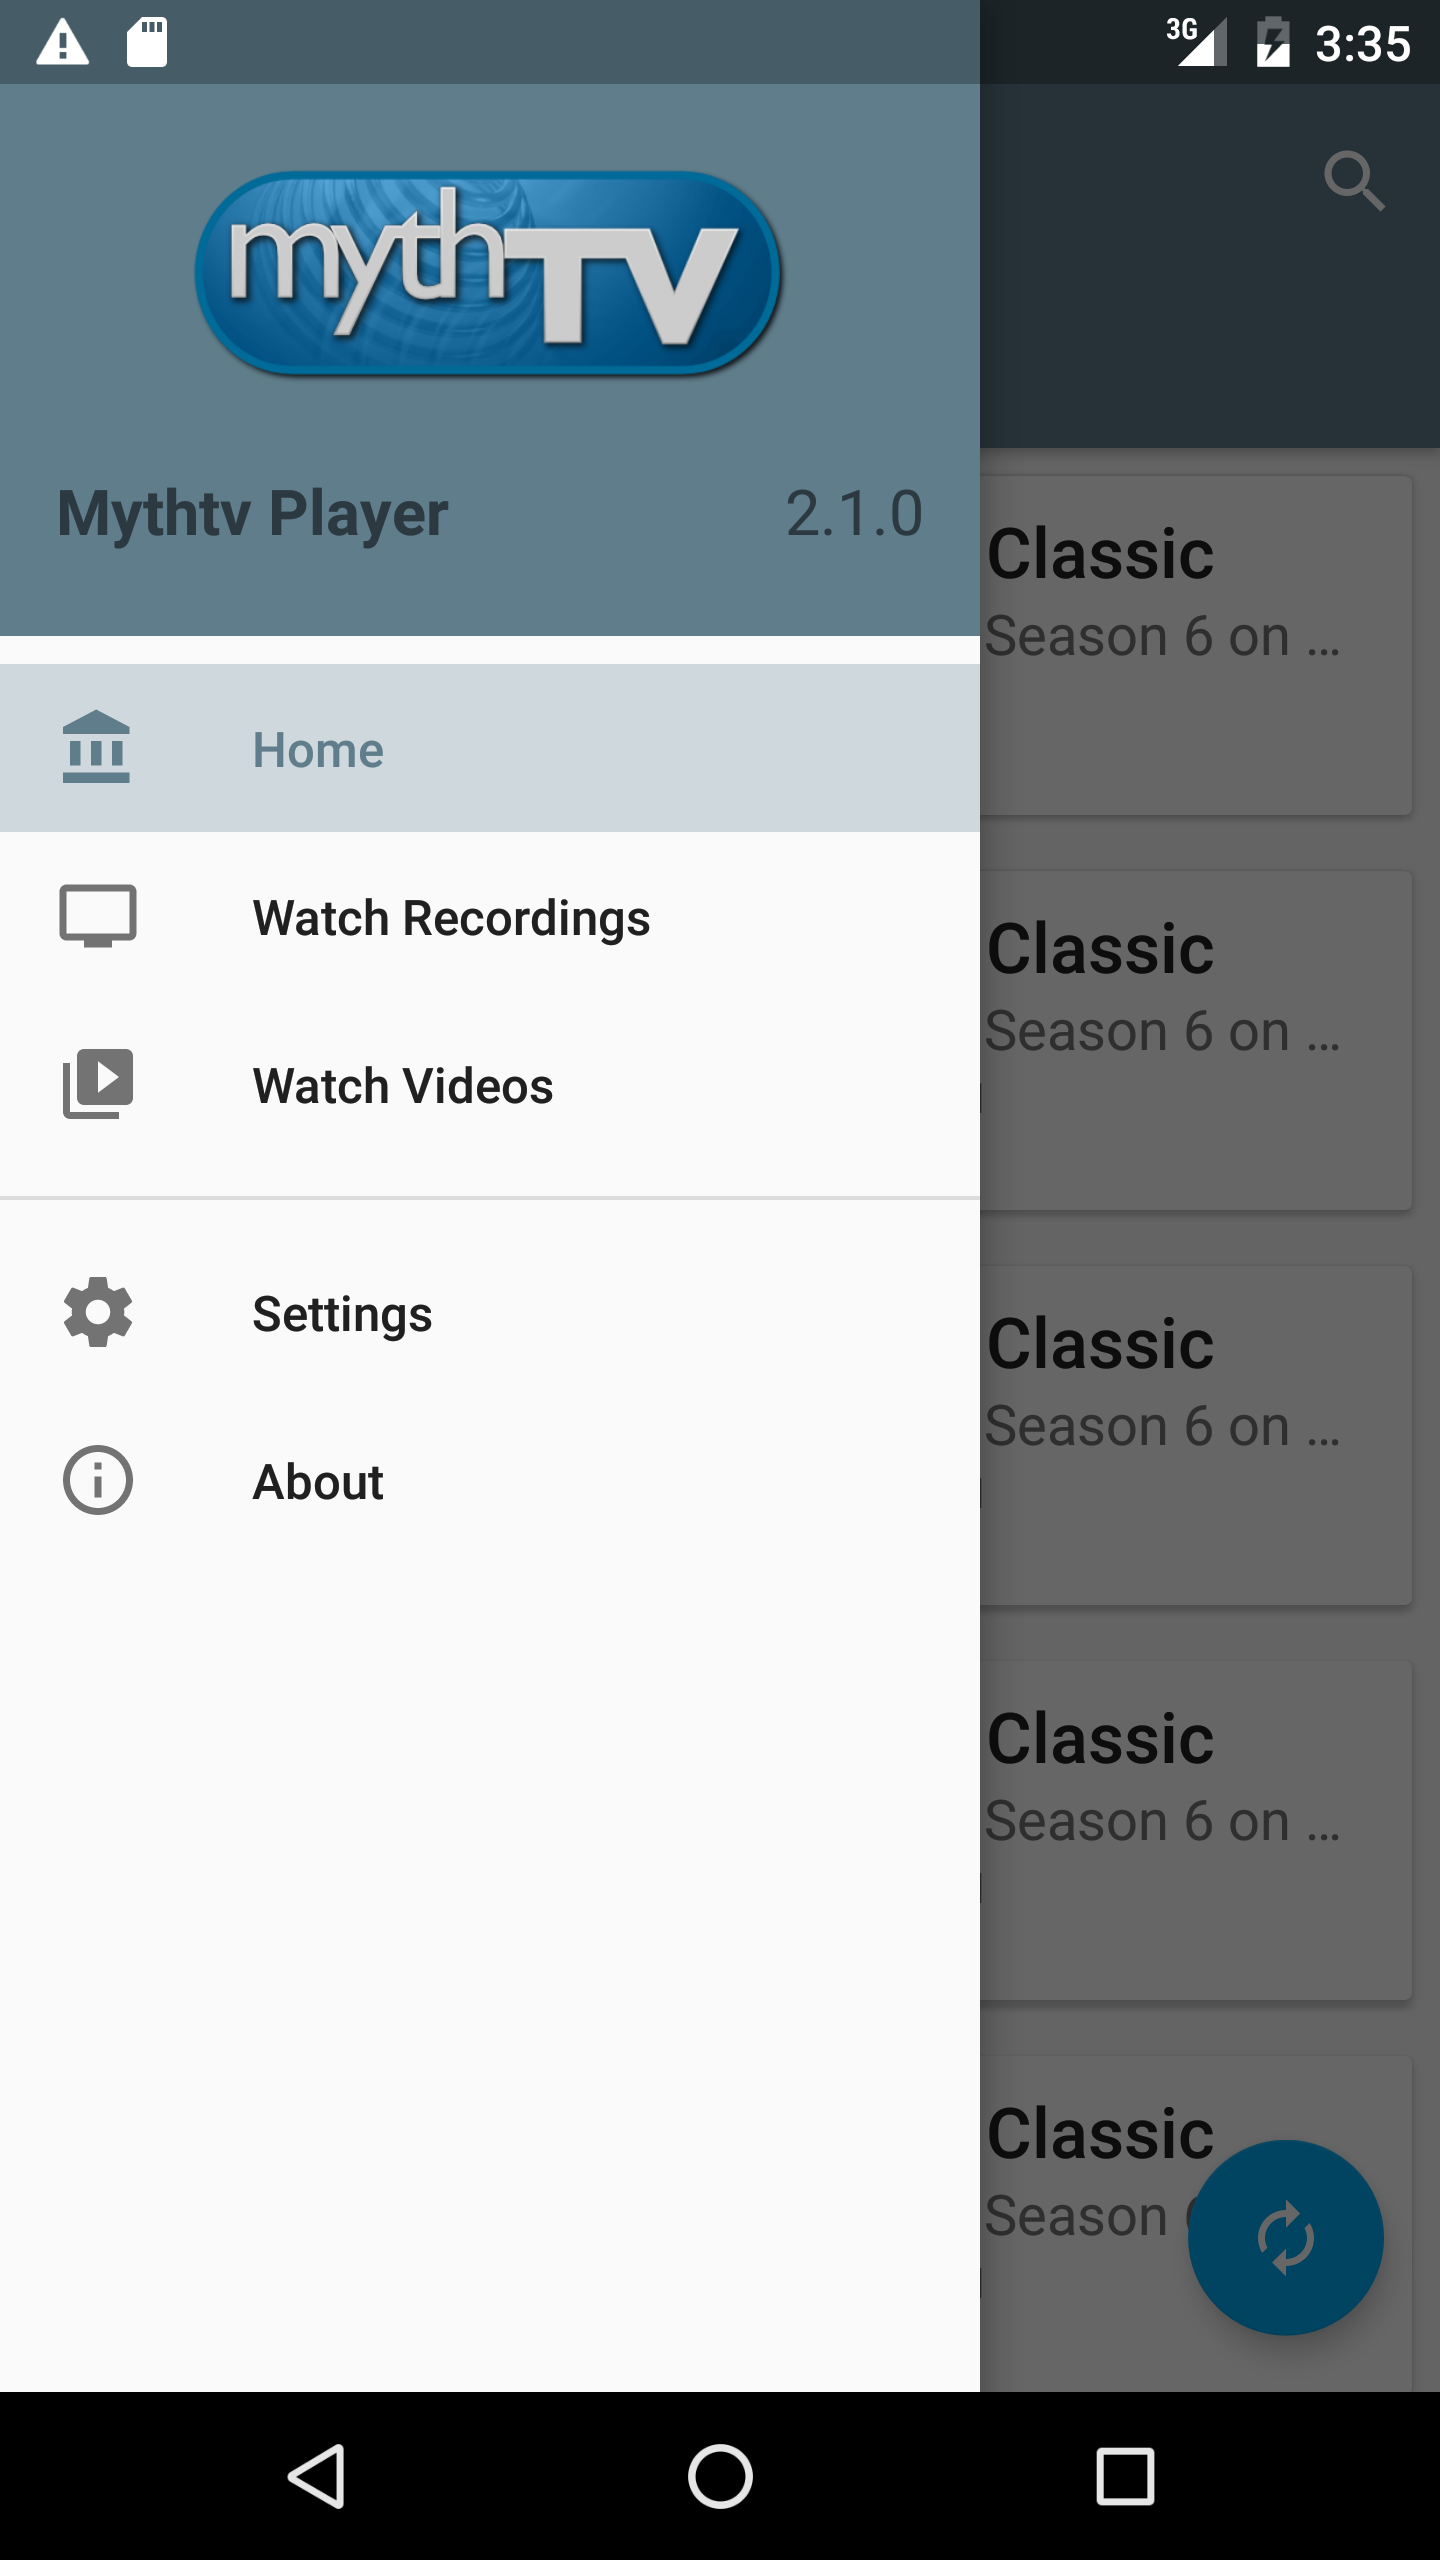
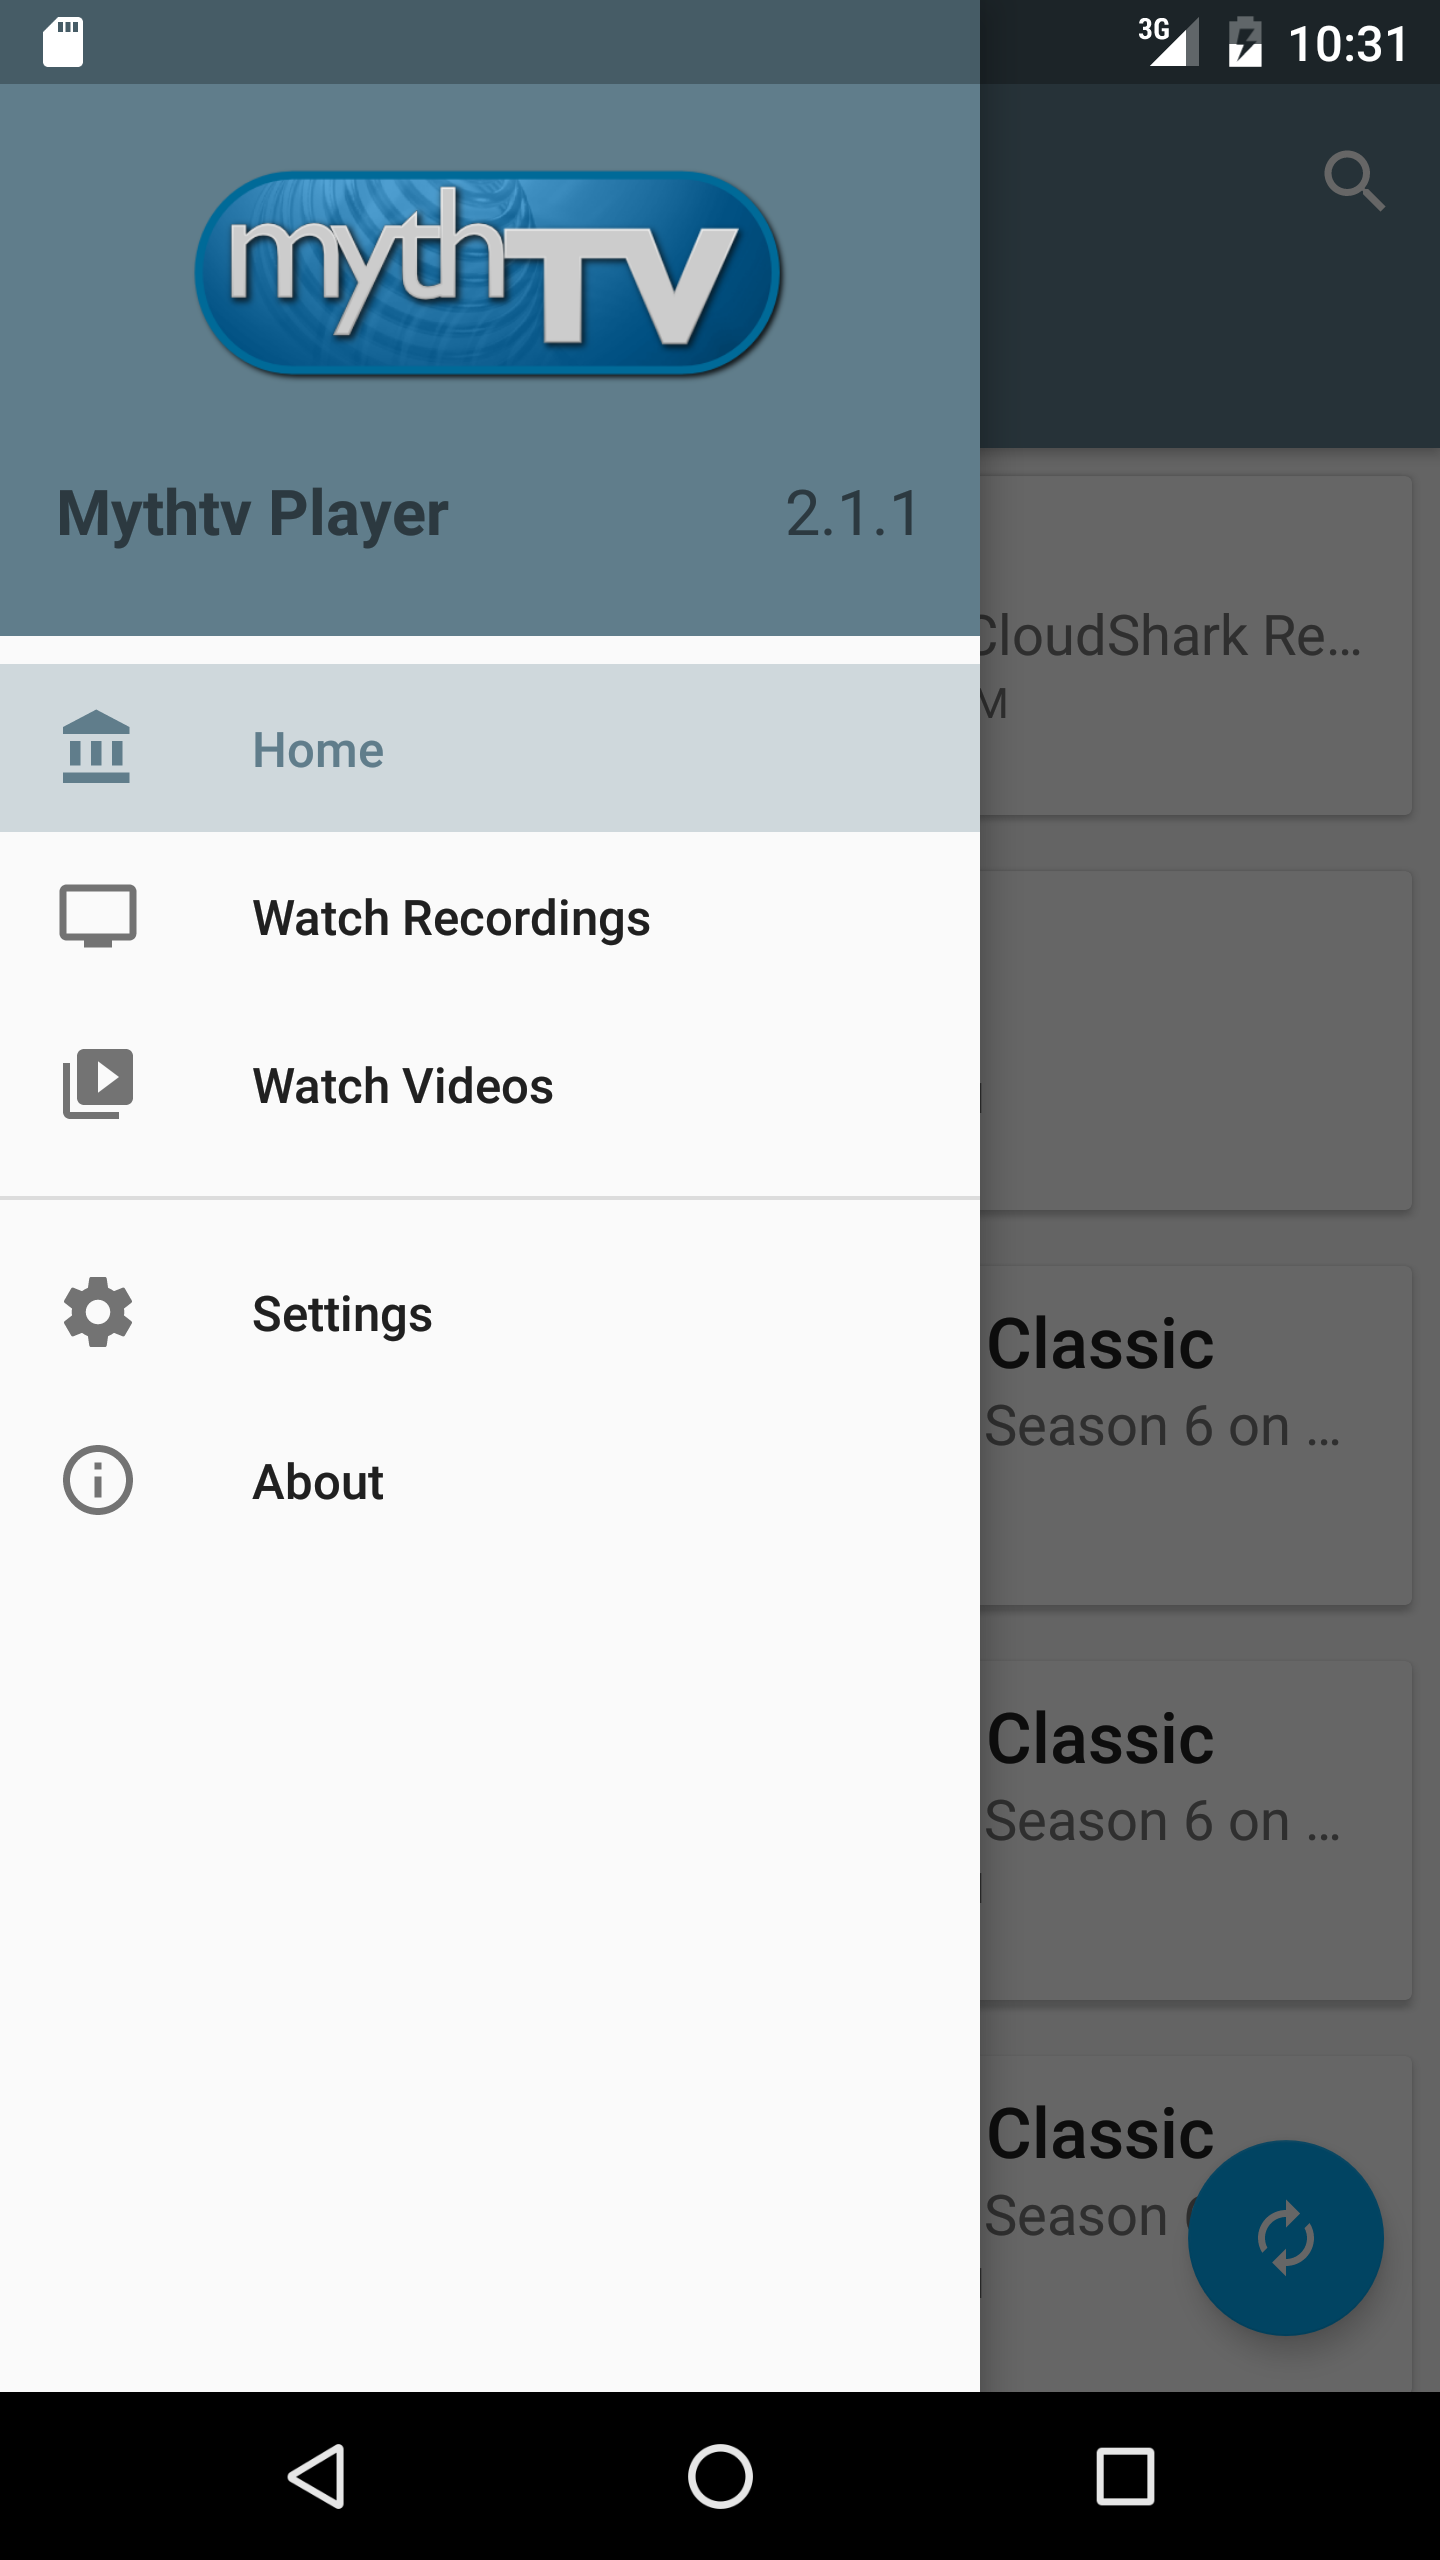
Release/2.1.1 (#185)
* Update version for release

* Update resources for release

* german translation of 2.1.1 changelog (#183)

* Fix search results on Android TV

Search results were failing to render due to not having the
appropriate leanback theme applied to the search results
activity. Once reapplied, it was found that search results
were not unique. Fixing how the search result db cleaned up
the existing entries resolved this. The latest leanback support
library was also applied, as was setting the search button
color to the defined accent color. Also, a merge issue was
identified which prevented search history from displaying and
was resolved.

fixes #184

diff --git a/data/src/main/java/org/mythtv/android/data/repository/datasource/DbSearchDataStore.java b/data/src/main/java/org/mythtv/android/data/repository/datasource/DbSearchDataStore.java
@@ -171,16 +171,12 @@ public class DbSearchDataStore implements SearchDataStore {
 
             db.beginTransaction();
 
-            String title = "";
-            for( SearchResultEntity entity : searchResultEntityCollection ) {
-
-                title = entity.getTitle();
-                break;
-
-            }
-
-            Log.d( TAG, "refreshRecordedProgramData : deleting old recordings" );
-            db.delete( SearchResultEntity.TABLE_NAME, "type = ? and title = ?", new String[] { SearchResult.Type.RECORDING.name(), title } );
+            Observable.from( searchResultEntityCollection )
+                    .distinct( searchResultEntity -> searchResultEntity.getTitle() )
+                    .flatMap( searchResultEntity -> Observable.just( searchResultEntity.getTitle() ) )
+                    .doOnNext( title -> db.delete( SearchResultEntity.TABLE_NAME, "type = ? and title = ?", new String[] { SearchResult.Type.RECORDING.name(), title } ) )
+                    .doOnNext( title -> Log.d( TAG, "refreshRecordedPrograms : deleting old recordings for title=" + title ) )
+                    .subscribe();
 
             processCollection( searchResultEntityCollection );
         }

diff --git a/app/src/main/java/org/mythtv/android/view/fragment/tv/AbstractBaseBrowseFragment.java b/app/src/main/java/org/mythtv/android/view/fragment/tv/AbstractBaseBrowseFragment.java
@@ -23,6 +23,7 @@ import android.os.Bundle;
 import android.support.v17.leanback.app.BrowseFragment;
 import android.widget.Toast;
 
+import org.mythtv.android.R;
 import org.mythtv.android.internal.di.HasComponent;
 import org.mythtv.android.internal.di.modules.SharedPreferencesModule;
 
@@ -38,6 +39,7 @@ public abstract class AbstractBaseBrowseFragment extends BrowseFragment {
         super.onCreate( savedInstanceState );
 
         setRetainInstance( true );
+        setSearchAffordanceColor( R.color.accent );
 
     }
 
